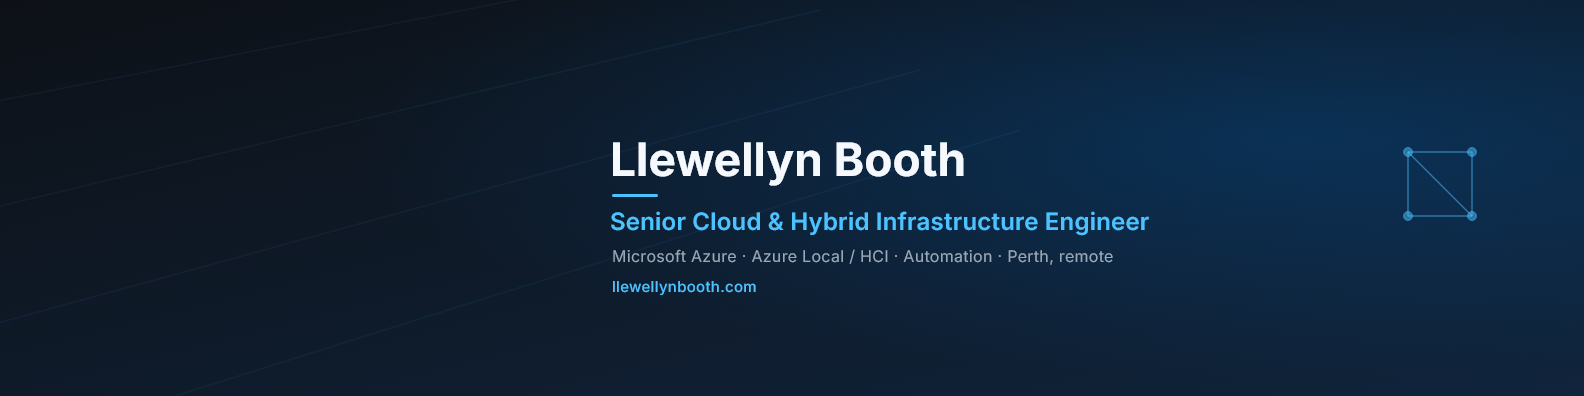
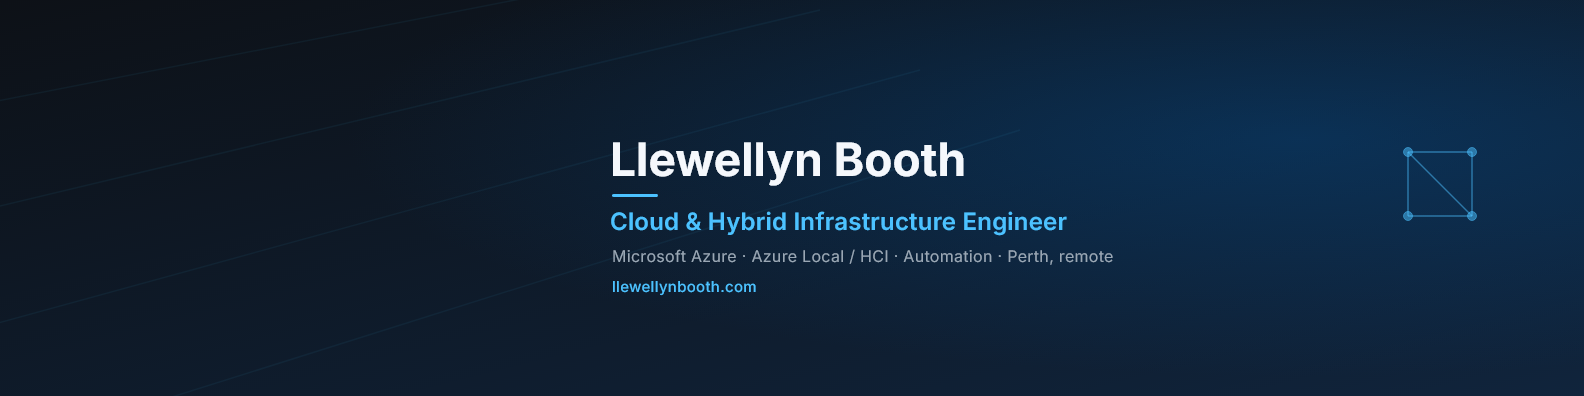
Experience tweaks: drop client names, reword NetOps, group Orro roles
- Removed "Qantas and Australia Post" from index.html and resume.html.
- "the Network Operations team" -> "Infrastructure and Network
  Operations" in the NW Computing bullet (both files).
- index.html: the two Orro positions now sit under a single "Orro Group"
  heading (job-stint blocks) instead of two repeated company entries —
  one timeline point, two roles, matching LinkedIn's layout.

Changed region(s): [[0.3712, 0.5152, 0.7424, 0.6061]]

diff --git a/frontend/index.html b/frontend/index.html
@@ -241,48 +241,49 @@
         <ol class="timeline reveal">
 
           <li>
-            <div class="job-head">
-              <h3>Orro Group</h3>
-              <span class="job-role">Hybrid Cloud Engineer</span>
-              <span class="job-date">Jan 2026 &ndash; present</span>
-            </div>
-            <p>
-              Tier&nbsp;1 managed services and cloud provider; enterprise clients including Qantas
-              and Australia Post. Moved into a dedicated hybrid-cloud role on relocating to Perth
-              &mdash; deeper ownership of Azure Local platforms and the engineering practice
-              around them.
-            </p>
-            <details>
-              <summary>Key responsibilities</summary>
-              <ul>
-                <li>Own the lifecycle of 2- to 10-node Azure Local (Azure Stack HCI) clusters for multiple enterprise clients &mdash; health, LCM/SBE and firmware, storage and network intents, Azure Arc.</li>
-                <li>Led a cluster network-adapter migration and RDMA rebuild &mdash; Broadcom NICs to Intel E810, reconfigured converged networking for RDMA (RoCE), validated throughput and failover.</li>
-                <li>Built cost-optimisation workbooks that surface orphaned resources and verify reservation coverage &mdash; reduced a client's Azure spend ~20% on average.</li>
-                <li>Introduced architecture decision records and tested runbooks for recurring cluster maintenance.</li>
-                <li>Azure subject-matter expert in presales &mdash; scoping, effort estimates, technical assurance.</li>
-              </ul>
-            </details>
-          </li>
+            <div class="job-head"><h3>Orro Group</h3></div>
 
-          <li>
-            <div class="job-head">
-              <h3>Orro Group</h3>
-              <span class="job-role">Cloud Infrastructure Engineer</span>
-              <span class="job-date">Jul 2024 &ndash; Jan 2026</span>
+            <div class="job-stint">
+              <div class="stint-head">
+                <span class="job-role">Hybrid Cloud Engineer</span>
+                <span class="job-date">Jan 2026 &ndash; present</span>
+              </div>
+              <p>
+                Tier&nbsp;1 managed services and cloud provider. Moved into a dedicated
+                hybrid-cloud role on relocating to Perth &mdash; deeper ownership of Azure Local
+                platforms and the engineering practice around them.
+              </p>
+              <details>
+                <summary>Key responsibilities</summary>
+                <ul>
+                  <li>Own the lifecycle of 2- to 10-node Azure Local (Azure Stack HCI) clusters for multiple enterprise clients &mdash; health, LCM/SBE and firmware, storage and network intents, Azure Arc.</li>
+                  <li>Led a cluster network-adapter migration and RDMA rebuild &mdash; Broadcom NICs to Intel E810, reconfigured converged networking for RDMA (RoCE), validated throughput and failover.</li>
+                  <li>Built cost-optimisation workbooks that surface orphaned resources and verify reservation coverage &mdash; reduced a client's Azure spend ~20% on average.</li>
+                  <li>Introduced architecture decision records and tested runbooks for recurring cluster maintenance.</li>
+                  <li>Azure subject-matter expert in presales &mdash; scoping, effort estimates, technical assurance.</li>
+                </ul>
+              </details>
             </div>
-            <p>
-              Joined Orro's Cloud Infrastructure team after the acquisition of NW Computing,
-              moving into enterprise-scale Azure and hybrid work.
-            </p>
-            <details>
-              <summary>Key responsibilities</summary>
-              <ul>
-                <li>BAU for enterprise Azure estates &mdash; provisioning and lifecycle of VMs, storage, networking, load balancers and databases.</li>
-                <li>On-premises-to-Azure migrations &mdash; assessment, landing-zone build, cutover and validation.</li>
-                <li>Supported Azure Local (Azure Stack HCI) clusters &mdash; health, updates, Azure Arc registration.</li>
-                <li>Managed Cisco Meraki SD-WAN changes and escalations across the client base.</li>
-              </ul>
-            </details>
+
+            <div class="job-stint">
+              <div class="stint-head">
+                <span class="job-role">Cloud Infrastructure Engineer</span>
+                <span class="job-date">Jul 2024 &ndash; Jan 2026</span>
+              </div>
+              <p>
+                Joined Orro's Cloud Infrastructure team after the acquisition of NW Computing,
+                moving into enterprise-scale Azure and hybrid work.
+              </p>
+              <details>
+                <summary>Key responsibilities</summary>
+                <ul>
+                  <li>BAU for enterprise Azure estates &mdash; provisioning and lifecycle of VMs, storage, networking, load balancers and databases.</li>
+                  <li>On-premises-to-Azure migrations &mdash; assessment, landing-zone build, cutover and validation.</li>
+                  <li>Supported Azure Local (Azure Stack HCI) clusters &mdash; health, updates, Azure Arc registration.</li>
+                  <li>Managed Cisco Meraki SD-WAN changes and escalations across the client base.</li>
+                </ul>
+              </details>
+            </div>
           </li>
 
           <li>
@@ -300,7 +301,7 @@
             <details>
               <summary>Key responsibilities</summary>
               <ul>
-                <li>Primary contact for the Network Operations team and high-priority Service Desk incidents.</li>
+                <li>Primary contact for Infrastructure and Network Operations, and for high-priority Service Desk incidents.</li>
                 <li>Management, monitoring and maintenance of network and server infrastructure.</li>
                 <li>Security compliance via patching and proactive maintenance.</li>
                 <li>Delivery against client and team deadlines without compromising quality.</li>

diff --git a/frontend/resume.html b/frontend/resume.html
@@ -159,7 +159,7 @@
 
     <div class="job">
       <div class="job-title">Hybrid Cloud Engineer &mdash; Orro Group</div>
-      <div class="job-meta">Perth, WA &middot; Remote &middot; Jan 2026 &ndash; Present &middot; Tier-1 managed services and cloud provider; enterprise clients including Qantas and Australia Post</div>
+      <div class="job-meta">Perth, WA &middot; Remote &middot; Jan 2026 &ndash; Present &middot; Tier-1 managed services and cloud provider serving enterprise clients</div>
       <ul>
         <li>Own the lifecycle of <b>2- to 10-node Azure Local (Azure Stack HCI) clusters</b> for multiple enterprise clients &mdash; health, LCM/SBE and firmware, storage and network intents, Azure Arc.</li>
         <li>Led a cluster <b>network-adapter migration and RDMA rebuild</b> &mdash; replaced Broadcom NICs with Intel E810, reconfigured converged networking for RDMA (RoCE), and validated throughput and failover.</li>
@@ -185,7 +185,7 @@
       <div class="job-title">Systems Engineer &mdash; NW Computing</div>
       <div class="job-meta">Australia &middot; Oct 2022 &ndash; Jul 2024 &middot; National cloud and managed-services provider (acquired by Orro, 2024)</div>
       <ul>
-        <li><b>Primary escalation point</b> for the Network Operations team and high-priority Service Desk incidents across <b>20&ndash;30 client environments</b> of varying size.</li>
+        <li><b>Primary escalation point</b> for Infrastructure and Network Operations, and for high-priority Service Desk incidents, across <b>20&ndash;30 client environments</b> of varying size.</li>
         <li>Owned monitoring, maintenance and patching of network and server infrastructure; kept fleet-wide security compliance current.</li>
         <li>Mentored infrastructure engineers; maintained client and internal documentation and training.</li>
         <li>Delivered Azure, Microsoft 365 and Meraki project work to deadline alongside BAU.</li>

diff --git a/frontend/css/site.css b/frontend/css/site.css
@@ -239,6 +239,10 @@ section { padding-block: clamp(3.5rem, 9vw, 6.5rem); }
   margin-left: auto; color: var(--text-muted); font-size: .85rem; font-variant-numeric: tabular-nums;
   white-space: nowrap;
 }
+/* two positions under one company */
+.job-stint { margin-top: 1.4rem; }
+.job-stint:first-of-type { margin-top: .5rem; }
+.stint-head { display: flex; flex-wrap: wrap; gap: .2rem 1rem; align-items: baseline; margin-bottom: .1rem; }
 .timeline p { color: var(--text-muted); font-size: .96rem; max-width: var(--prose); }
 .timeline ul { color: var(--text-muted); font-size: .93rem; max-width: var(--prose); }
 .timeline details > summary {
